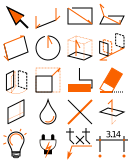
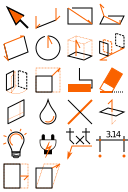
feat(stretch-tool): WIP

diff --git a/core/src/main/kotlin/com/github/alfu32/sketch/tools/StretchTool.kt b/core/src/main/kotlin/com/github/alfu32/sketch/tools/StretchTool.kt
@@ -1,0 +1,300 @@
+package com.github.alfu32.sketch.tools
+
+import com.badlogic.gdx.Input
+import com.badlogic.gdx.graphics.Color
+import com.badlogic.gdx.graphics.glutils.ShapeRenderer
+import com.badlogic.gdx.math.Vector3
+import com.github.alfu32.sketch.model.GroupScene
+import com.github.alfu32.sketch.ui.StatusModel
+import com.github.alfu32.sketch.ui.Tool
+import com.github.alfu32.sketch.ui.ToolId
+import kotlin.math.round
+
+class StretchTool(
+    private val scene: GroupScene
+) : Tool {
+    override val id: ToolId = ToolId.STRETCH
+    override val message: String = "Pick reference point."
+
+    private var start: Vector3? = null
+    private val hover = Vector3()
+    private var hasHover = false
+    private var hoverNormal: Vector3? = null
+
+    private val keyEpsilon = 1e-2f
+
+    override fun onEnter(status: StatusModel) {
+        status.message = "Pick reference point."
+    }
+
+    override fun onExit(status: StatusModel) {
+        clearTransient()
+        super.onExit(status)
+    }
+
+    override fun onCancel(status: StatusModel) {
+        clearTransient()
+        status.message = "Canceled."
+    }
+
+    override fun onPointerMoved(status: StatusModel, world: Vector3?, normal: Vector3?, valid: Boolean) {
+        if (valid && world != null) {
+            hover.set(world)
+            hasHover = true
+            hoverNormal = normal?.cpy()
+        } else {
+            hasHover = false
+            hoverNormal = null
+        }
+    }
+
+    override fun onPointerDown(status: StatusModel, world: Vector3?, normal: Vector3?, valid: Boolean, button: Int): Boolean {
+        if (button != Input.Buttons.LEFT || !valid || world == null) {
+            return false
+        }
+        if (start == null) {
+            start = Vector3(world)
+            status.message = "Pick destination point."
+            return true
+        }
+        val from = start ?: return false
+        val to = Vector3(world)
+        val deltaWorld = Vector3(to).sub(from)
+        if (deltaWorld.len2() <= 1e-6f) {
+            clearTransient()
+            status.message = "No movement."
+            return true
+        }
+
+        val group = scene.activeGroup()
+        val localDelta = group.vectorToLocal(deltaWorld)
+        val selectedKeys = collectSelectedKeys(group)
+        val movedHotspots = mutableSetOf<VertexKey>()
+
+        val lineStore = group.lineStore
+        lineStore.withChangeSuppressed {
+            lineStore.getSegments().forEach { segment ->
+                if (lineStore.isSelected(segment)) {
+                    segment.start.add(localDelta)
+                    segment.end.add(localDelta)
+                } else {
+                    val startKey = vertexKey(segment.start)
+                    if (selectedKeys.contains(startKey)) {
+                        segment.start.add(localDelta)
+                        movedHotspots.add(startKey)
+                    }
+                    val endKey = vertexKey(segment.end)
+                    if (selectedKeys.contains(endKey)) {
+                        segment.end.add(localDelta)
+                        movedHotspots.add(endKey)
+                    }
+                }
+            }
+        }
+        lineStore.notifyExternalChange()
+
+        val faceStore = group.faceStore
+        faceStore.withChangeSuppressed {
+            faceStore.getTriangles().forEach { tri ->
+                if (faceStore.isSelected(tri)) {
+                    tri.a.add(localDelta)
+                    tri.b.add(localDelta)
+                    tri.c.add(localDelta)
+                } else {
+                    val aKey = vertexKey(tri.a)
+                    if (selectedKeys.contains(aKey)) {
+                        tri.a.add(localDelta)
+                        movedHotspots.add(aKey)
+                    }
+                    val bKey = vertexKey(tri.b)
+                    if (selectedKeys.contains(bKey)) {
+                        tri.b.add(localDelta)
+                        movedHotspots.add(bKey)
+                    }
+                    val cKey = vertexKey(tri.c)
+                    if (selectedKeys.contains(cKey)) {
+                        tri.c.add(localDelta)
+                        movedHotspots.add(cKey)
+                    }
+                }
+            }
+        }
+        faceStore.notifyExternalChange()
+
+        val movedDimensions = group.dimensionStore.transformSelected { point -> Vector3(point).add(localDelta) }
+        val movedTexts = group.textStore.transformSelected { point -> Vector3(point).add(localDelta) }
+        val movedGroups = scene.transformSelectedGroups(
+            { point -> Vector3(point).add(deltaWorld) },
+            { vector -> Vector3(vector) }
+        )
+        alignSelectedGroupsIfNeeded()
+
+        val movedEdges = lineStore.getSelected().size
+        val movedFaces = faceStore.getSelected().size
+        status.message =
+            "Stretched | edges $movedEdges faces $movedFaces hotspots ${movedHotspots.size} dims $movedDimensions texts $movedTexts groups $movedGroups"
+        clearTransient()
+        return true
+    }
+
+    override fun render(renderer: ShapeRenderer) {
+        val startPoint = start
+        if (startPoint != null && hasHover) {
+            renderer.color = Color(0.95f, 0.3f, 0.3f, 1f)
+            drawCross(renderer, startPoint, 0.18f)
+            renderer.color = Color(0.2f, 0.55f, 0.95f, 1f)
+            drawCross(renderer, hover, 0.18f)
+            renderer.color = Color(0.95f, 0.9f, 0.2f, 1f)
+            renderer.line(startPoint.x, startPoint.y, startPoint.z, hover.x, hover.y, hover.z)
+            val deltaWorld = Vector3(hover).sub(startPoint)
+            if (deltaWorld.len2() > 1e-6f) {
+                renderPreview(renderer, deltaWorld)
+                renderGroupPreview(renderer, deltaWorld)
+            }
+        }
+    }
+
+    private fun drawCross(renderer: ShapeRenderer, point: Vector3, size: Float) {
+        renderer.line(point.x - size, point.y, point.z, point.x + size, point.y, point.z)
+        renderer.line(point.x, point.y - size, point.z, point.x, point.y + size, point.z)
+        renderer.line(point.x, point.y, point.z - size, point.x, point.y, point.z + size)
+    }
+
+    private fun clearTransient() {
+        start = null
+        hasHover = false
+        hoverNormal = null
+    }
+
+    private fun collectSelectedKeys(group: GroupScene.GroupNode): Set<VertexKey> {
+        val keys = mutableSetOf<VertexKey>()
+        group.lineStore.getSelected().forEach { segment ->
+            keys.add(vertexKey(segment.start))
+            keys.add(vertexKey(segment.end))
+        }
+        group.faceStore.getSelected().forEach { tri ->
+            keys.add(vertexKey(tri.a))
+            keys.add(vertexKey(tri.b))
+            keys.add(vertexKey(tri.c))
+        }
+        return keys
+    }
+
+    private fun renderPreview(renderer: ShapeRenderer, deltaWorld: Vector3) {
+        renderer.color = Color(0.25f, 0.85f, 0.55f, 1f)
+        val group = scene.activeGroup()
+        val localDelta = group.vectorToLocal(deltaWorld)
+        val selectedKeys = collectSelectedKeys(group)
+
+        group.faceStore.getTriangles().forEach { tri ->
+            val selected = group.faceStore.isSelected(tri)
+            val a = adjustPoint(tri.a, selected, selectedKeys, localDelta)
+            val b = adjustPoint(tri.b, selected, selectedKeys, localDelta)
+            val c = adjustPoint(tri.c, selected, selectedKeys, localDelta)
+            val aw = group.toWorld(a)
+            val bw = group.toWorld(b)
+            val cw = group.toWorld(c)
+            renderer.line(aw.x, aw.y, aw.z, bw.x, bw.y, bw.z)
+            renderer.line(bw.x, bw.y, bw.z, cw.x, cw.y, cw.z)
+            renderer.line(cw.x, cw.y, cw.z, aw.x, aw.y, aw.z)
+        }
+        group.lineStore.getSegments().forEach { segment ->
+            val selected = group.lineStore.isSelected(segment)
+            val a = adjustPoint(segment.start, selected, selectedKeys, localDelta)
+            val b = adjustPoint(segment.end, selected, selectedKeys, localDelta)
+            val aw = group.toWorld(a)
+            val bw = group.toWorld(b)
+            renderer.line(aw.x, aw.y, aw.z, bw.x, bw.y, bw.z)
+        }
+    }
+
+    private fun renderGroupPreview(renderer: ShapeRenderer, deltaWorld: Vector3) {
+        if (scene.selectedGroups().isEmpty()) {
+            return
+        }
+        renderer.color = Color(0.25f, 0.85f, 0.55f, 1f)
+        scene.selectedGroups().forEach { group ->
+            val corners = group.orientedBoundsCorners() ?: return@forEach
+            corners.indices.forEach { idx ->
+                corners[idx].add(deltaWorld)
+            }
+            drawWireBox(renderer, corners)
+        }
+    }
+
+    private fun drawWireBox(renderer: ShapeRenderer, corners: Array<Vector3>) {
+        if (corners.size < 8) {
+            return
+        }
+        val c0 = corners[0]
+        val c1 = corners[1]
+        val c2 = corners[2]
+        val c3 = corners[3]
+        val c4 = corners[4]
+        val c5 = corners[5]
+        val c6 = corners[6]
+        val c7 = corners[7]
+        renderer.line(c0, c1)
+        renderer.line(c1, c2)
+        renderer.line(c2, c3)
+        renderer.line(c3, c0)
+        renderer.line(c4, c5)
+        renderer.line(c5, c6)
+        renderer.line(c6, c7)
+        renderer.line(c7, c4)
+        renderer.line(c0, c4)
+        renderer.line(c1, c5)
+        renderer.line(c2, c6)
+        renderer.line(c3, c7)
+    }
+
+    private fun adjustPoint(
+        point: Vector3,
+        selectedEntity: Boolean,
+        selectedKeys: Set<VertexKey>,
+        localDelta: Vector3
+    ): Vector3 {
+        if (selectedEntity || selectedKeys.contains(vertexKey(point))) {
+            return Vector3(point).add(localDelta)
+        }
+        return Vector3(point)
+    }
+
+    private fun alignSelectedGroupsIfNeeded() {
+        val normal = hoverNormal?.cpy()?.nor() ?: return
+        scene.selectedGroups().forEach { group ->
+            if (!group.gluedToSurface) {
+                return@forEach
+            }
+            val axes = group.worldAxes()
+            val lenU = axes.u.len()
+            val lenV = axes.v.len()
+            val lenW = axes.w.len()
+            if (lenW <= 1e-6f) {
+                return@forEach
+            }
+            val newW = normal.cpy().nor().scl(lenW)
+            var newU = axes.u.cpy()
+            newU.mulAdd(newW, -newU.dot(newW) / (lenW * lenW))
+            if (newU.len2() <= 1e-6f) {
+                newU = axes.v.cpy()
+                newU.mulAdd(newW, -newU.dot(newW) / (lenW * lenW))
+            }
+            if (newU.len2() <= 1e-6f) {
+                return@forEach
+            }
+            newU.nor().scl(lenU)
+            val newV = Vector3(newW).crs(newU).nor().scl(lenV)
+            val origin = group.worldOrigin()
+            group.setInstanceFromWorld(origin, newU, newV, newW)
+        }
+    }
+
+    private data class VertexKey(val x: Int, val y: Int, val z: Int)
+
+    private fun vertexKey(point: Vector3): VertexKey {
+        return VertexKey(quant(point.x), quant(point.y), quant(point.z))
+    }
+
+    private fun quant(value: Float): Int = round(value / keyEpsilon).toInt()
+}

diff --git a/core/src/main/kotlin/com/github/alfu32/sketch/Main.kt b/core/src/main/kotlin/com/github/alfu32/sketch/Main.kt
@@ -56,6 +56,7 @@ import com.github.alfu32.sketch.tools.RotateTool
 import com.github.alfu32.sketch.tools.SurfaceRectangleTool
 import com.github.alfu32.sketch.tools.SelectTool
 import com.github.alfu32.sketch.tools.ScaleTool
+import com.github.alfu32.sketch.tools.StretchTool
 import com.github.alfu32.sketch.tools.TextTool
 import com.github.alfu32.sketch.ui.SimpleTool
 import com.github.alfu32.sketch.ui.SketchUiOverlay
@@ -185,6 +186,7 @@ class Main(private val startupArgs: kotlin.Array<String> = emptyArray()) : Appli
                 MoveTool(scene),
                 RotateTool(scene),
                 ScaleTool(scene),
+                StretchTool(scene),
                 PaintTool(scene, camera) { statusModel.paintColor.cpy() },
                 SimpleTool(ToolId.ERASER, "Click to erase edges."),
                 objectPlaceTool
@@ -430,6 +432,7 @@ class Main(private val startupArgs: kotlin.Array<String> = emptyArray()) : Appli
             ToolId.MOVE,
             ToolId.ROTATE,
             ToolId.SCALE,
+            ToolId.STRETCH,
             ToolId.PAINT,
             ToolId.ERASER
         ).forEach { toolId ->

diff --git a/core/src/main/kotlin/com/github/alfu32/sketch/ui/SketchUiOverlay.kt b/core/src/main/kotlin/com/github/alfu32/sketch/ui/SketchUiOverlay.kt
@@ -1219,6 +1219,7 @@ class SketchUiOverlay(
             ToolId.MOVE -> "move"
             ToolId.ROTATE -> "rotate"
             ToolId.SCALE -> "scale"
+            ToolId.STRETCH -> "stretch"
             ToolId.PAINT -> "paint"
             ToolId.ERASER -> "eraser"
             ToolId.OBJECT_PLACE -> "select"
@@ -1238,6 +1239,7 @@ class SketchUiOverlay(
             ToolId.MOVE -> Color(0.95f, 0.45f, 0.35f, 1f)
             ToolId.ROTATE -> Color(0.75f, 0.55f, 0.95f, 1f)
             ToolId.SCALE -> Color(0.95f, 0.55f, 0.75f, 1f)
+            ToolId.STRETCH -> Color(0.95f, 0.65f, 0.25f, 1f)
             ToolId.PAINT -> Color(0.95f, 0.95f, 0.45f, 1f)
             ToolId.ERASER -> Color(0.65f, 0.65f, 0.65f, 1f)
             ToolId.OBJECT_PLACE -> Color(0.85f, 0.85f, 0.85f, 1f)

diff --git a/core/src/main/kotlin/com/github/alfu32/sketch/model/DraftLineStore.kt b/core/src/main/kotlin/com/github/alfu32/sketch/model/DraftLineStore.kt
@@ -385,6 +385,10 @@ class DraftLineStore {
             onChange?.invoke()
         }
     }
+
+    fun notifyExternalChange() {
+        notifyChange()
+    }
     private fun segmentIntersectsAabb(a: Vector3, b: Vector3, min: Vector3, max: Vector3): Boolean {
         var tmin = 0f
         var tmax = 1f

diff --git a/core/src/main/kotlin/com/github/alfu32/sketch/ui/ToolId.kt b/core/src/main/kotlin/com/github/alfu32/sketch/ui/ToolId.kt
@@ -13,6 +13,7 @@ enum class ToolId(val displayName: String) {
     MOVE("Move"),
     ROTATE("Rotate"),
     SCALE("Scale"),
+    STRETCH("Stretch"),
     PAINT("Paint"),
     ERASER("Eraser"),
     OBJECT_PLACE("Object"),

diff --git a/core/src/main/kotlin/com/github/alfu32/sketch/model/DraftFaceStore.kt b/core/src/main/kotlin/com/github/alfu32/sketch/model/DraftFaceStore.kt
@@ -703,4 +703,8 @@ class DraftFaceStore(
             onChange?.invoke()
         }
     }
+
+    fun notifyExternalChange() {
+        notifyChange()
+    }
 }

diff --git a/docs/specification/ROADMAP.md b/docs/specification/ROADMAP.md
@@ -1,0 +1,4 @@
+1. i want the grid size to be accessible for parametrization to the user in the settings panel, this measure will be used also by all the helpers ( t - the axis system and g - the grid planes system ) if
+   it isnt already used.
+2. i would also like to be able to toggle what the 3d renderer renders ( toggle the visibility of each of the entities types ). i dont know in which panel we should put these ... propose something
+   ( maybe the selection/entities panel )
